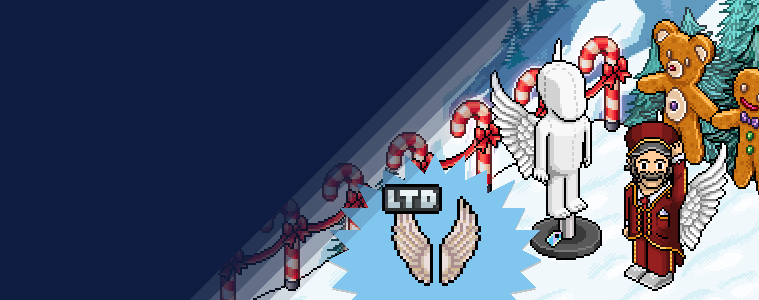
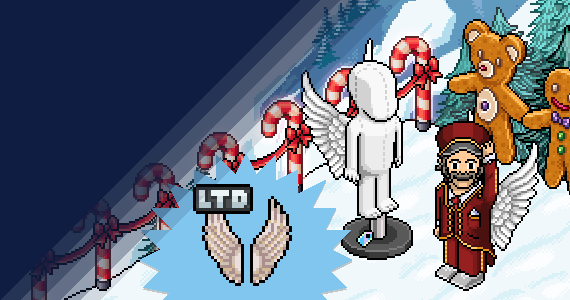
Promo header reduction

diff --git a/angel-wings/index.html b/angel-wings/index.html
@@ -10,7 +10,7 @@
   <meta property="og:url" content="https://intiumbuta.github.io/angel-wings/" />
   <meta property="og:image" content="https://intiumbuta.github.io/angel-wings/promo_header.png" />
   <meta property="og:image:type" content="image/png" />
-  <meta property="og:image:width" content="759" />
+  <meta property="og:image:width" content="570" />
   <meta property="og:image:height" content="300" />
 
   <link rel="icon" type="image/png" href="favicon.png" />
